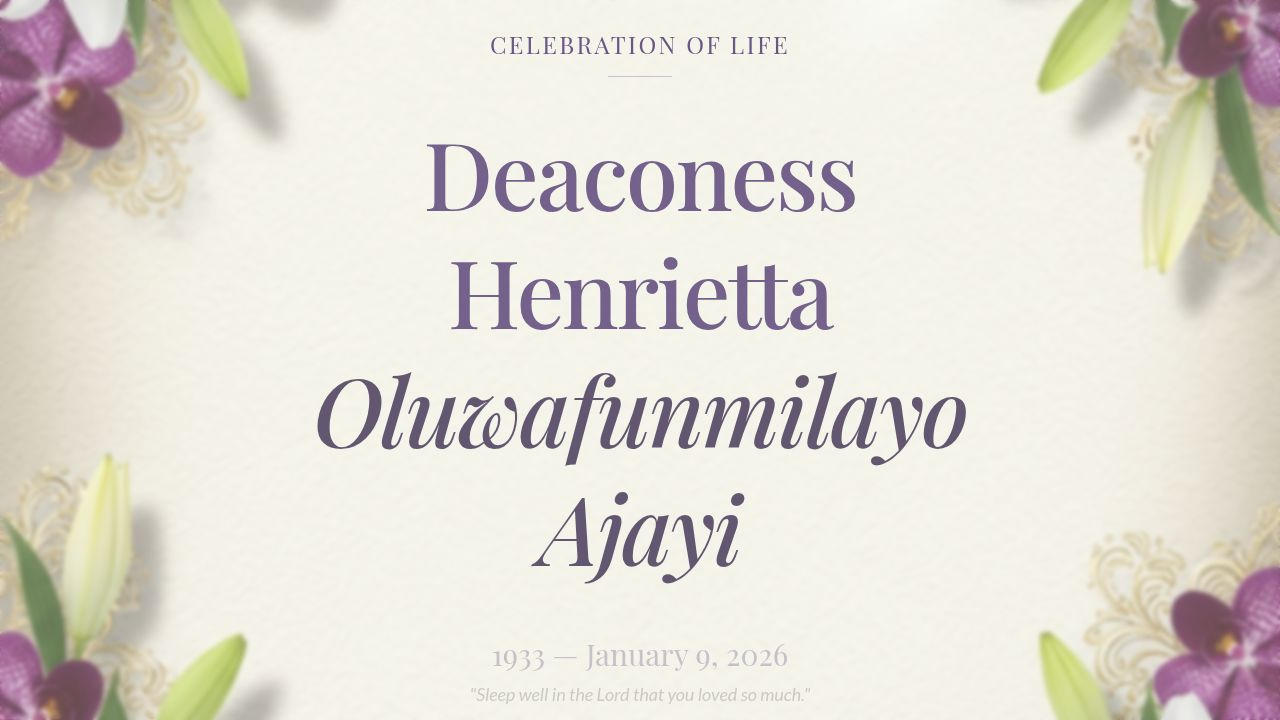
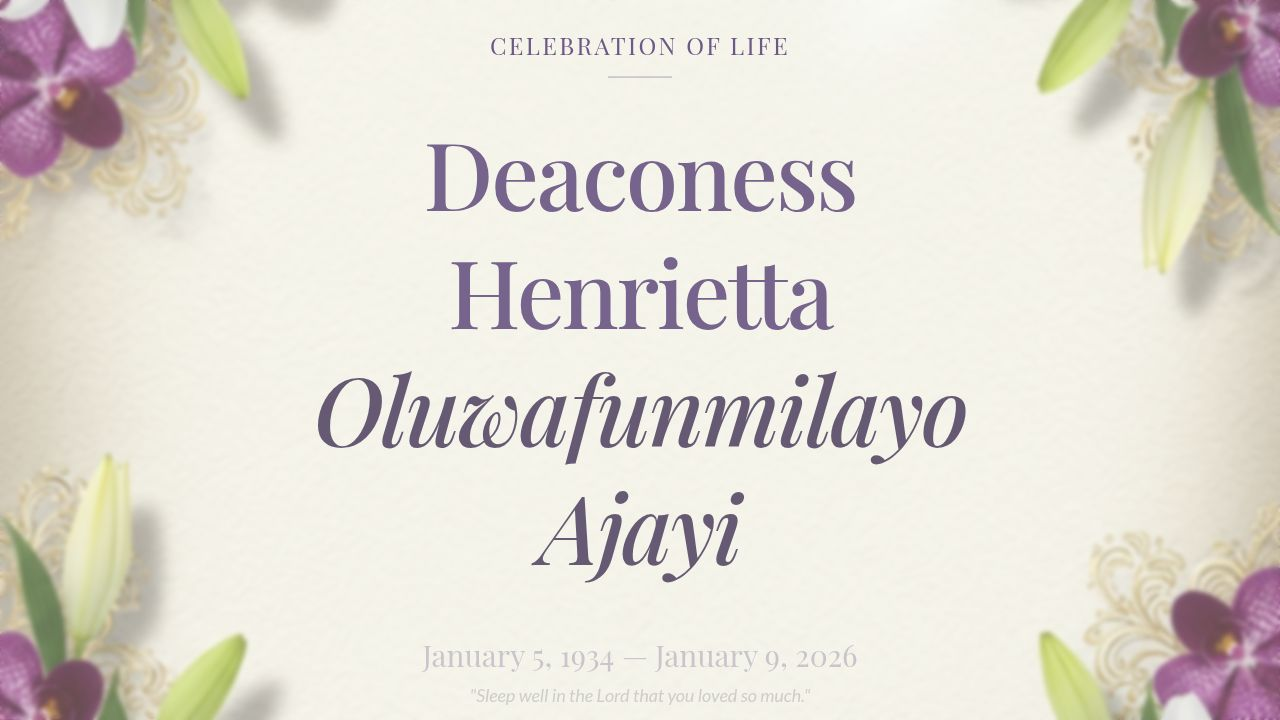
Update birth date on memorial website to January 5 1934
Corrected birth date from 1933 to January 5, 1934, in the Cover and Biography components.

Replit-Commit-Author: Agent
Replit-Commit-Session-Id: 52e5bf61-f71b-46df-980e-e2fe463678d7
Replit-Commit-Checkpoint-Type: full_checkpoint
Replit-Commit-Event-Id: 0de385c0-2112-4820-8b07-1fa24ad03a0d
Replit-Commit-Screenshot-Url: https://storage.googleapis.com/screenshot-production-us-central1/f65dbcd9-4f17-4b18-9ab0-b69c6cd78dcf/52e5bf61-f71b-46df-980e-e2fe463678d7/vyM48Pk
Replit-Helium-Checkpoint-Created: true

diff --git a/client/src/components/Tribute/Biography.tsx b/client/src/components/Tribute/Biography.tsx
@@ -40,7 +40,7 @@ export default function Biography() {
              <h3 className="text-3xl font-serif text-primary">A Life of Grace</h3>
              <p className="text-lg leading-relaxed text-muted-foreground">
                Deaconess Henrietta Oluwafunmilayo Ajayi was a beacon of faith and love. 
-               Born in 1933, she lived a life dedicated to God and her family. 
+               Born on January 5, 1934, she lived a life dedicated to God and her family. 
                As a devoted member of Wesley Methodist Church Ikoyi, she served with humility and grace.
              </p>
              <p className="text-lg leading-relaxed text-muted-foreground">

diff --git a/client/src/components/Tribute/Cover.tsx b/client/src/components/Tribute/Cover.tsx
@@ -41,7 +41,7 @@ export default function Cover() {
           className="space-y-2"
         >
           <p className="text-2xl md:text-3xl font-serif text-primary/90">
-            1933 — January 9, 2026
+            January 5, 1934 — January 9, 2026
           </p>
           <p className="text-lg text-muted-foreground italic">
             "Sleep well in the Lord that you loved so much."
